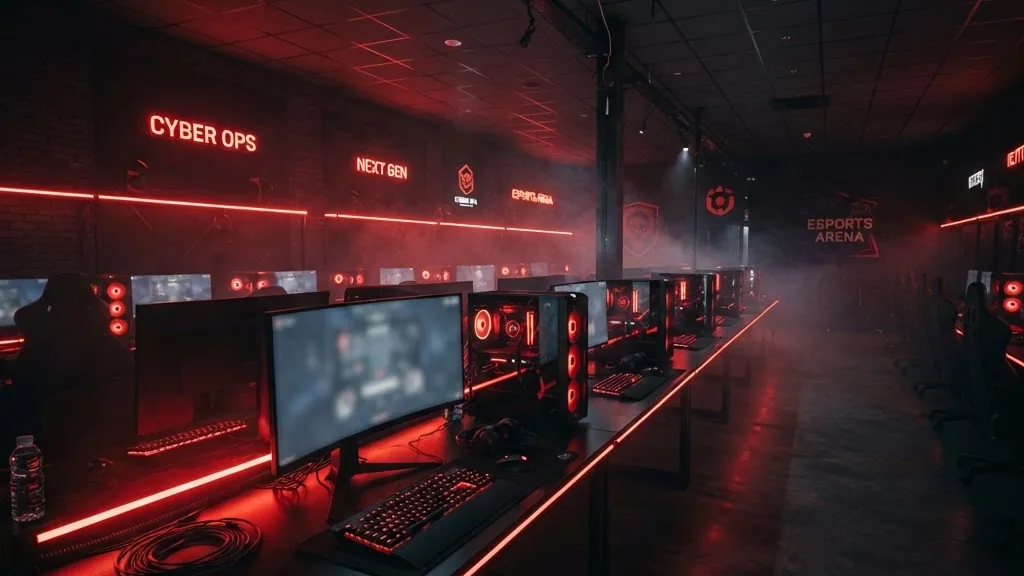
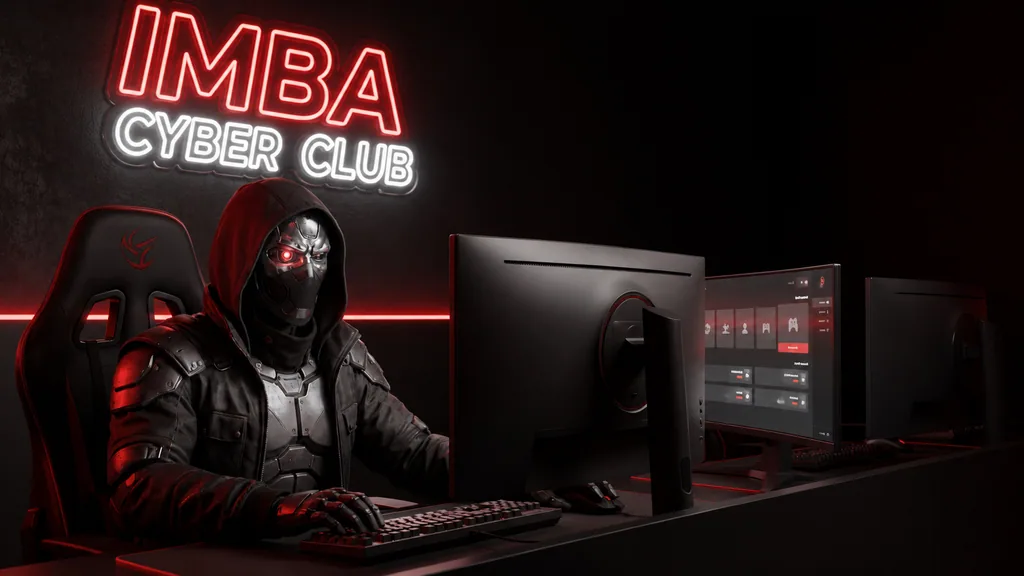
feat: update blur fingerprint and lock-bg.webp image

diff --git a/lib/assets/blur-data.generated.ts b/lib/assets/blur-data.generated.ts
@@ -1,10 +1,10 @@
 // GENERATED by scripts/generate-blur.mjs — do not edit by hand.
-// 13 placeholders, 1.4 KB of data URLs.
+// 13 placeholders, 1.5 KB of data URLs.
 // Re-run (`pnpm assets:blur`) after any change to public/promo, public/attract,
 // lock-bg.webp or fallback.webp — `pnpm assets:verify` fails until you do.
 
 /** Content hash of the source art; checked by scripts/verify-assets.mjs (§13.8). */
-export const BLUR_FINGERPRINT = '94400e666d63'
+export const BLUR_FINGERPRINT = 'e42238131426'
 
 /** 16px-wide webp LQIPs, keyed by the public path they stand in for. */
 export const BLUR_DATA: Record<string, string> = {
@@ -33,5 +33,5 @@ export const BLUR_DATA: Record<string, string> = {
   '/fallback.webp':
[1 lines of base64/hex data omitted]
   '/lock-bg.webp':
[2 lines of base64/hex data omitted]
 }
